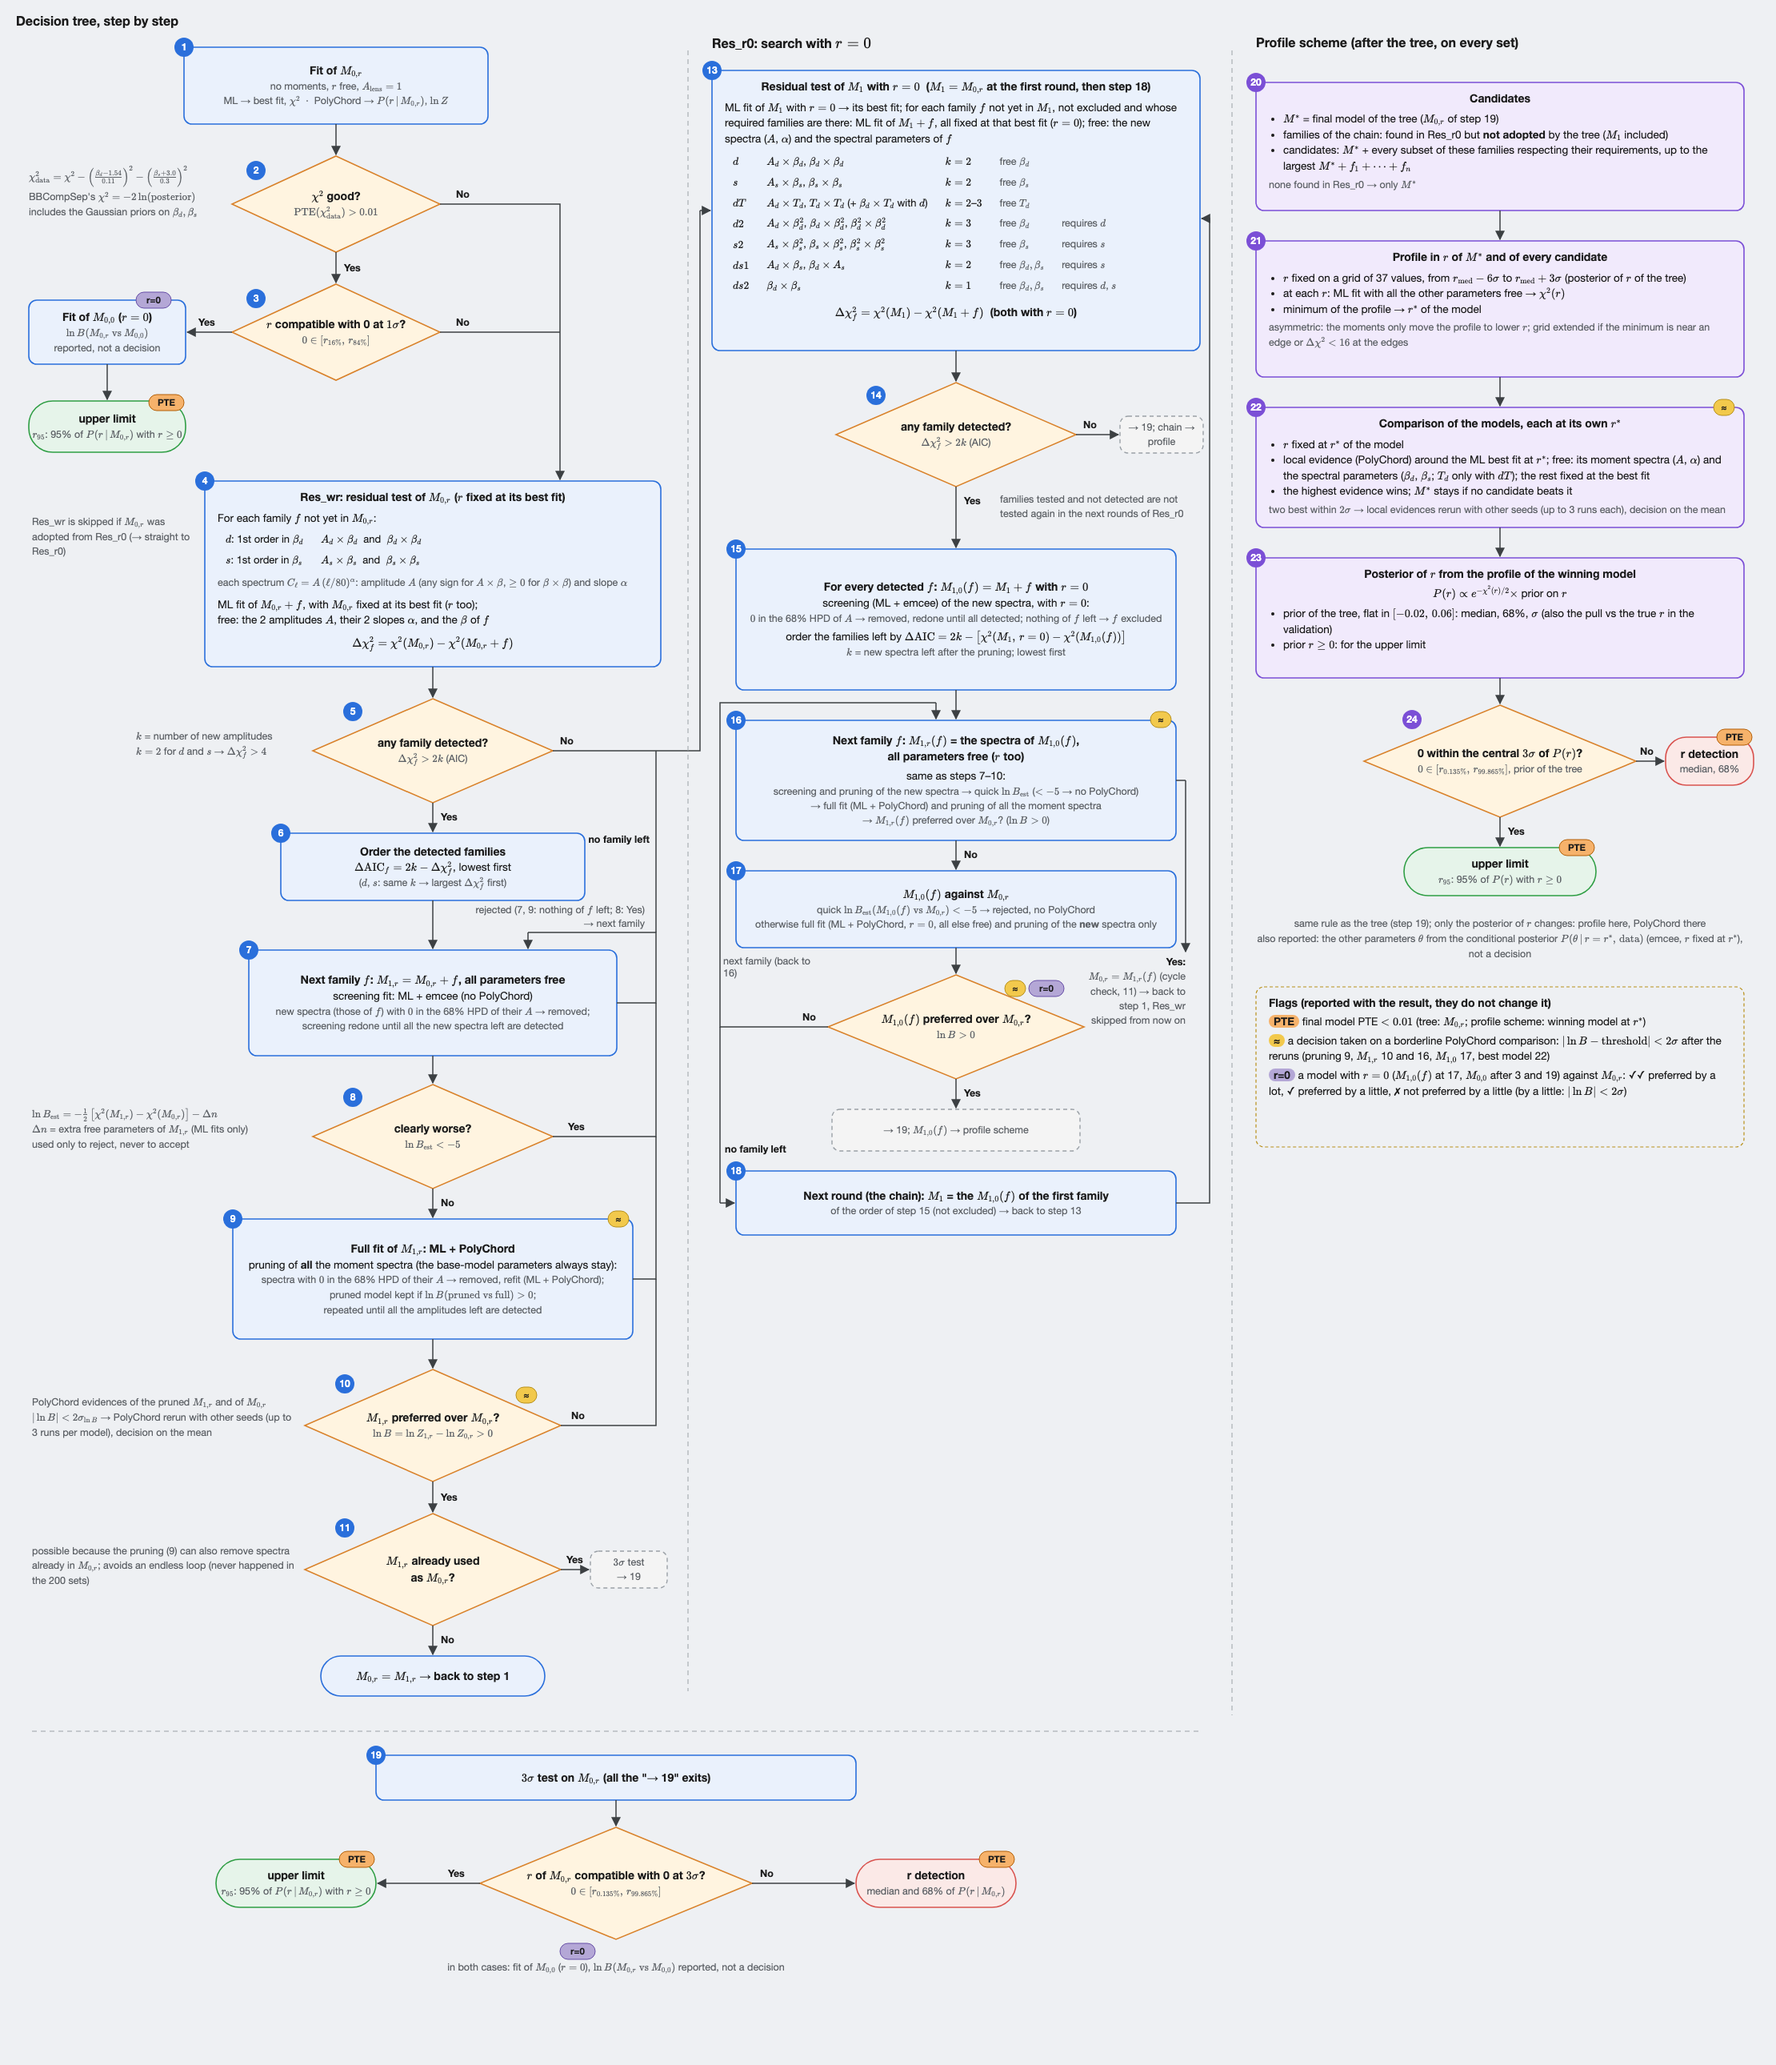
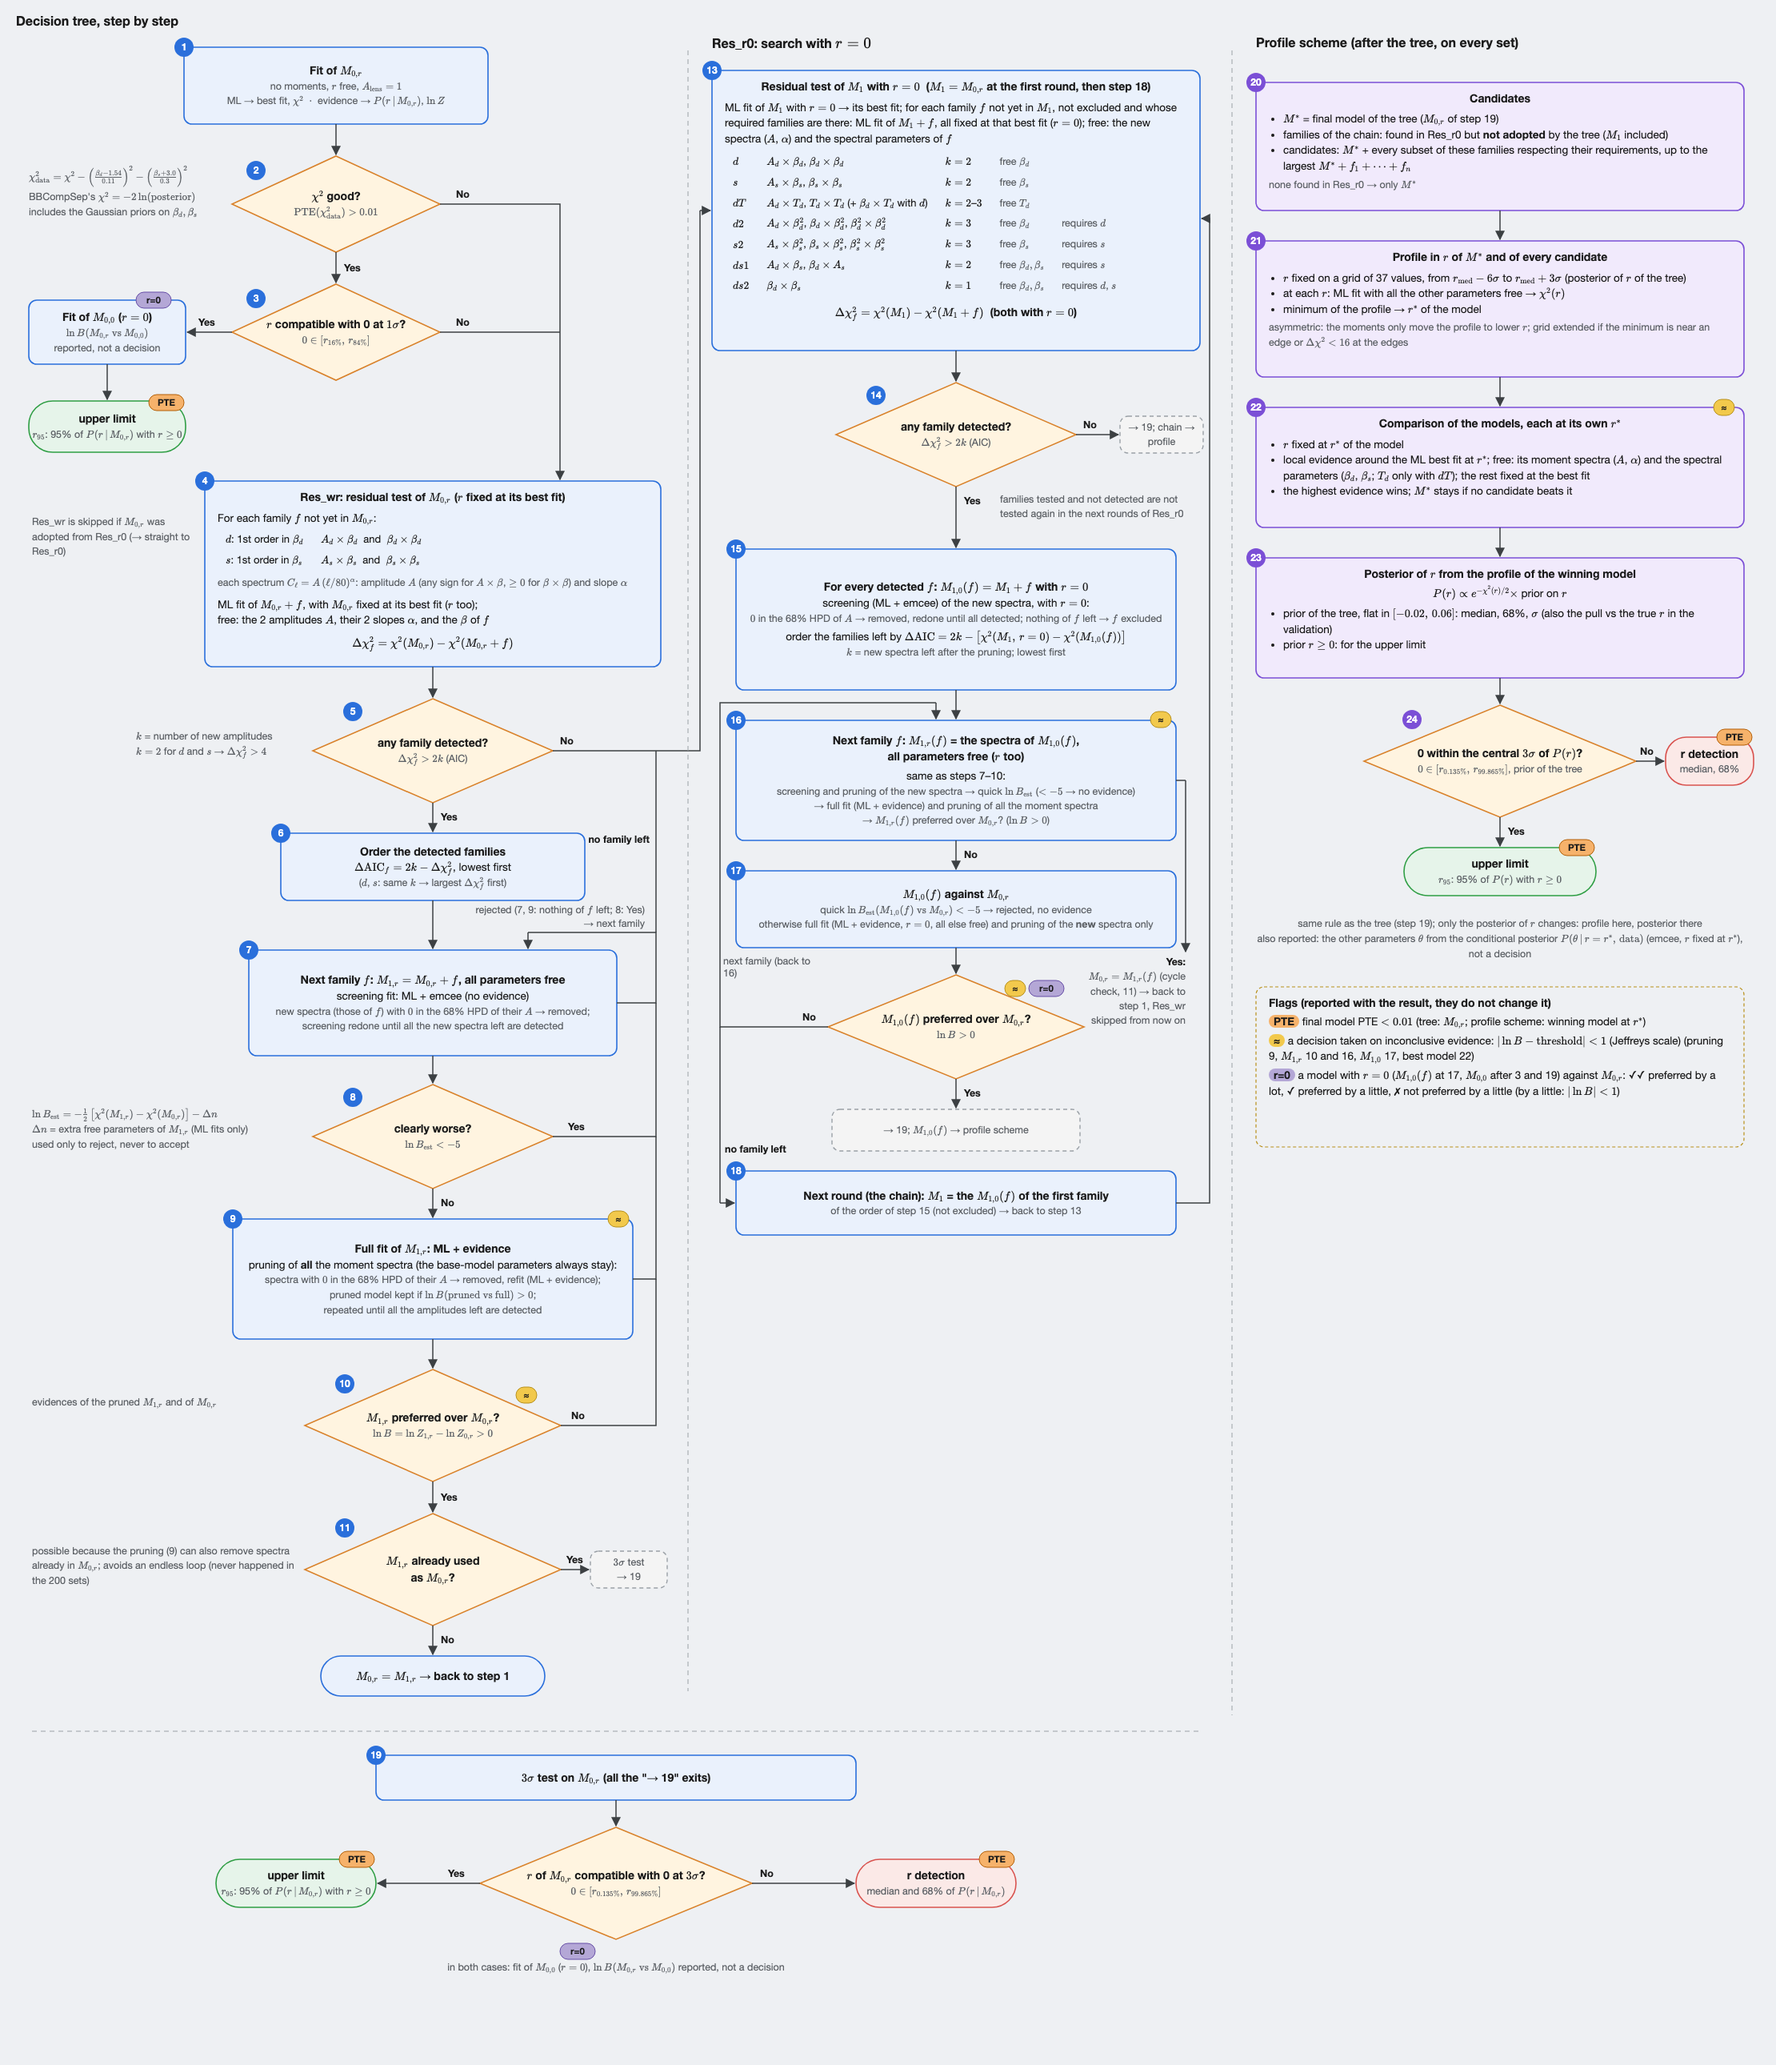
Flowchart and results page: no sampler names in the flowchart, no evidence reruns, |ln B| < 1 flags

diff --git a/docs/flowcharts/step_by_step/tree_steps.html b/docs/flowcharts/step_by_step/tree_steps.html
@@ -56,7 +56,7 @@
   <foreignObject x="210" y="16" width="380" height="96"><div xmlns="http://www.w3.org/1999/xhtml" class="fo">
     <div class="t">Fit of $M_{0,r}$</div>
     <div class="s">no moments, $r$ free, $A_{\rm lens}=1$</div>
-    <div class="s">ML → best fit, $\chi^2$ &nbsp;·&nbsp; PolyChord → $P(r\,|\,M_{0,r})$, $\ln Z$</div>
+    <div class="s">ML → best fit, $\chi^2$ &nbsp;·&nbsp; evidence → $P(r\,|\,M_{0,r})$, $\ln Z$</div>
   </div></foreignObject>
   <circle class="numc" cx="210" cy="16" r="12"/><text class="num" x="210" y="20" text-anchor="middle">1</text>
 
@@ -167,7 +167,7 @@
   <rect class="box" x="291" y="1144" width="460" height="132" rx="10"/>
   <foreignObject x="291" y="1144" width="460" height="132"><div xmlns="http://www.w3.org/1999/xhtml" class="fo">
     <div class="t">Next family $f$: $M_{1,r}=M_{0,r}+f$, all parameters free</div>
-    <div>screening fit: ML + emcee (no PolyChord)</div>
+    <div>screening fit: ML + emcee (no evidence)</div>
     <div class="s">new spectra (those of $f$) with $0$ in the 68% HPD of their $A$ → removed;</div>
     <div class="s">screening redone until all the new spectra left are detected</div>
   </div></foreignObject>
@@ -194,7 +194,7 @@
     <div class="s">used only to reject, never to accept</div>
   </div></foreignObject>
 
-  <!-- Yes: rejected without PolyChord -> next family (join the loop) -->
+  <!-- Yes: rejected without evidence -> next family (join the loop) -->
   <polyline class="ln" points="671,1377 800,1377 800,1210"/>
   <text class="lab" x="690" y="1369">Yes</text>
 
@@ -204,9 +204,9 @@
   <!-- 9: full fit and pruning -->
   <rect class="box" x="271" y="1480" width="500" height="150" rx="10"/>
   <foreignObject x="271" y="1480" width="500" height="150"><div xmlns="http://www.w3.org/1999/xhtml" class="fo">
-    <div class="t">Full fit of $M_{1,r}$: ML + PolyChord</div>
+    <div class="t">Full fit of $M_{1,r}$: ML + evidence</div>
     <div>pruning of <b>all</b> the moment spectra (the base-model parameters always stay):</div>
-    <div class="s">spectra with $0$ in the 68% HPD of their $A$ → removed, refit (ML + PolyChord);</div>
+    <div class="s">spectra with $0$ in the 68% HPD of their $A$ → removed, refit (ML + evidence);</div>
     <div class="s">pruned model kept if $\ln B(\text{pruned vs full})&gt;0$;</div>
     <div class="s">repeated until all the amplitudes left are detected</div>
   </div></foreignObject>
@@ -224,8 +224,7 @@
   </div></foreignObject>
   <circle class="numc" cx="411" cy="1686" r="12"/><text class="num" x="411" y="1690" text-anchor="middle">10</text>
   <foreignObject x="20" y="1700" width="330" height="76"><div xmlns="http://www.w3.org/1999/xhtml" class="fo left" style="padding:0">
-    <div class="s">PolyChord evidences of the pruned $M_{1,r}$ and of $M_{0,r}$</div>
-    <div class="s">$|\ln B|&lt;2\sigma_{\ln B}$ → PolyChord rerun with other seeds (up to 3 runs per model), decision on the mean</div>
+    <div class="s">evidences of the pruned $M_{1,r}$ and of $M_{0,r}$</div>
   </div></foreignObject>
 
   <!-- No -> next family (join the loop) -->
@@ -321,8 +320,8 @@
     <div class="t">Next family $f$: $M_{1,r}(f)$ = the spectra of $M_{1,0}(f)$,</div>
     <div class="t">all parameters free ($r$ too)</div>
     <div style="margin-top:4px">same as steps 7–10:</div>
-    <div class="s">screening and pruning of the new spectra → quick $\ln B_{\rm est}$ ($&lt;-5$ → no PolyChord)</div>
-    <div class="s">→ full fit (ML + PolyChord) and pruning of all the moment spectra</div>
+    <div class="s">screening and pruning of the new spectra → quick $\ln B_{\rm est}$ ($&lt;-5$ → no evidence)</div>
+    <div class="s">→ full fit (ML + evidence) and pruning of all the moment spectra</div>
     <div class="s">→ $M_{1,r}(f)$ preferred over $M_{0,r}$? ($\ln B&gt;0$)</div>
   </div></foreignObject>
   <circle class="numc" cx="900" cy="857" r="12"/><text class="num" x="900" y="861" text-anchor="middle">16</text>
@@ -341,8 +340,8 @@
   <rect class="box" x="900" y="1045" width="550" height="96" rx="10"/>
   <foreignObject x="900" y="1045" width="550" height="96"><div xmlns="http://www.w3.org/1999/xhtml" class="fo">
     <div class="t">$M_{1,0}(f)$ against $M_{0,r}$</div>
-    <div class="s">quick $\ln B_{\rm est}(M_{1,0}(f)\ \text{vs}\ M_{0,r})&lt;-5$ → rejected, no PolyChord</div>
-    <div class="s">otherwise full fit (ML + PolyChord, $r=0$, all else free) and pruning of the <b>new</b> spectra only</div>
+    <div class="s">quick $\ln B_{\rm est}(M_{1,0}(f)\ \text{vs}\ M_{0,r})&lt;-5$ → rejected, no evidence</div>
+    <div class="s">otherwise full fit (ML + evidence, $r=0$, all else free) and pruning of the <b>new</b> spectra only</div>
   </div></foreignObject>
   <circle class="numc" cx="900" cy="1045" r="12"/><text class="num" x="900" y="1049" text-anchor="middle">17</text>
 
@@ -450,10 +449,9 @@
     <div class="t ctr">Comparison of the models, each at its own $r^*$</div>
     <ul style="margin:6px 0 0 0;padding-left:18px">
       <li>$r$ fixed at $r^*$ of the model</li>
-      <li>local evidence (PolyChord) around the ML best fit at $r^*$; free: its moment spectra ($A$, $\alpha$) and the spectral parameters ($\beta_d$, $\beta_s$; $T_d$ only with $dT$); the rest fixed at the best fit</li>
+      <li>local evidence around the ML best fit at $r^*$; free: its moment spectra ($A$, $\alpha$) and the spectral parameters ($\beta_d$, $\beta_s$; $T_d$ only with $dT$); the rest fixed at the best fit</li>
       <li>the highest evidence wins; $M^*$ stays if no candidate beats it</li>
     </ul>
-    <div class="s" style="margin-top:4px">two best within $2\sigma$ → local evidences rerun with other seeds (up to 3 runs each), decision on the mean</div>
   </div></foreignObject>
   <circle class="pnumc" cx="1550" cy="466" r="12"/><text class="num" x="1550" y="470" text-anchor="middle">22</text>
 
@@ -493,7 +491,7 @@
     <div class="t">r detection</div><div class="s">median, 68%</div></div></foreignObject>
 
   <foreignObject x="1550" y="1090" width="610" height="80"><div xmlns="http://www.w3.org/1999/xhtml" class="fo">
-    <div class="s">same rule as the tree (step 19); only the posterior of $r$ changes: profile here, PolyChord there</div>
+    <div class="s">same rule as the tree (step 19); only the posterior of $r$ changes: profile here, posterior there</div>
     <div class="s">also reported: the other parameters $\theta$ from the conditional posterior $P(\theta\,|\,r=r^*,\,\mathrm{data})$ (emcee, $r$ fixed at $r^*$), not a decision</div></div></foreignObject>
   <!-- flags -->
   <g><rect x="740" y="1470" width="26" height="20" rx="10" fill="#f2c94c" stroke="#b8901a" stroke-width="1"/><text x="753.0" y="1484" text-anchor="middle" font-size="11.5" font-weight="700" fill="#1b1b1b">≈</text></g>
@@ -514,8 +512,8 @@
   <foreignObject x="1550" y="1190" width="610" height="200"><div xmlns="http://www.w3.org/1999/xhtml" class="fo left">
     <div class="t">Flags (reported with the result, they do not change it)</div>
     <div style="margin-top:4px"><b style="background:#f6b26b;color:#1b1b1b;border-radius:8px;padding:0 6px">PTE</b> final model PTE $&lt;0.01$ (tree: $M_{0,r}$; profile scheme: winning model at $r^*$)</div>
-    <div style="margin-top:4px"><b style="background:#f2c94c;color:#1b1b1b;border-radius:8px;padding:0 6px">≈</b> a decision taken on a borderline PolyChord comparison: $|\ln B-\text{threshold}|&lt;2\sigma$ after the reruns (pruning 9, $M_{1,r}$ 10 and 16, $M_{1,0}$ 17, best model 22)</div>
-    <div style="margin-top:4px"><b style="background:#b4a7d6;color:#1b1b1b;border-radius:8px;padding:0 6px">r=0</b> a model with $r=0$ ($M_{1,0}(f)$ at 17, $M_{0,0}$ after 3 and 19) against $M_{0,r}$: ✓✓ preferred by a lot, ✓ preferred by a little, ✗ not preferred by a little (by a little: $|\ln B|&lt;2\sigma$)</div>
+    <div style="margin-top:4px"><b style="background:#f2c94c;color:#1b1b1b;border-radius:8px;padding:0 6px">≈</b> a decision taken on inconclusive evidence: $|\ln B-\text{threshold}|&lt;1$ (Jeffreys scale) (pruning 9, $M_{1,r}$ 10 and 16, $M_{1,0}$ 17, best model 22)</div>
+    <div style="margin-top:4px"><b style="background:#b4a7d6;color:#1b1b1b;border-radius:8px;padding:0 6px">r=0</b> a model with $r=0$ ($M_{1,0}(f)$ at 17, $M_{0,0}$ after 3 and 19) against $M_{0,r}$: ✓✓ preferred by a lot, ✓ preferred by a little, ✗ not preferred by a little (by a little: $|\ln B|&lt;1$)</div>
   </div></foreignObject>
 </svg>
 </body>

diff --git a/plots/validation_page/template.html b/plots/validation_page/template.html
@@ -221,8 +221,8 @@ details.more summary { cursor: pointer; color: var(--accent); font-size: .9rem; 
     </div>
     <div class="legend" style="margin:10px 0">
       <span><span class="chip c-pte">PTE</span>final model PTE &lt; 0.01</span>
-      <span><span class="chip c-und">≈</span>a decision taken on inconclusive evidence: |ln B − threshold| &lt; 1 (Jeffreys scale, Trotta 2008), or &lt; 2σ of the sampler after the reruns</span>
-      <span>model with r = 0 against M₀,r: <span class="chip c-m10">r=0 ✓✓</span>preferred by a lot <span class="chip c-m10">r=0 ✓</span>preferred by a little <span class="chip c-m10">r=0 ✗</span>not preferred, by a little (a little: |ln B| &lt; 1, or &lt; 2σ of the sampler)</span>
+      <span><span class="chip c-und">≈</span>a decision taken on inconclusive evidence: |ln B − threshold| &lt; 1 (Jeffreys scale, Trotta 2008)</span>
+      <span>model with r = 0 against M₀,r: <span class="chip c-m10">r=0 ✓✓</span>preferred by a lot <span class="chip c-m10">r=0 ✓</span>preferred by a little <span class="chip c-m10">r=0 ✗</span>not preferred, by a little (a little: |ln B| &lt; 1)</span>
       <span><span class="chip c-pte">det</span>yellow cells: detection with true r &lt; 3×10⁻³</span>
       <span><span class="wrong">UL ✗ / det ✗</span> red cells: wrong conclusion: true r above the 95% upper limit, or detection with true r = 0</span>
     </div>
@@ -345,7 +345,7 @@ function detail(r) {
   const pt = (v, l) => `${l} <span class="${v < PTE_FLAG ? 'p2' : ''}">${v.toFixed(3)}</span>`;
   const GR = { '✓✓': 'preferred by a lot', '✓': 'preferred by a little', '✗': 'not preferred, by a little', '': 'not preferred' };
   if (x.r0c && x.r0c.length) items.push(['Models with r = 0 (r=0 flag)', x.r0c.map(c => `<div>${c.g ? `<span class="chip c-m10">r=0 ${c.g}</span>` : ''}${c.w === 'M₀,₀' ? 'final model with r = 0, M₀,₀' : 'M₁,₀ of Res<sub>r0</sub>'} = ${mx(c.m) || 'no moments'}: ln B(r = 0 vs M₀,r) = ${c.x.toFixed(2)} ± ${c.e.toFixed(2)}, ${GR[c.g]}</div>`).join('') +
-    '<div class="ul">by a lot / by a little: |ln B| above / below max(1, 2σ of the sampler). M₁,₀ preferred stops the Bayesian search (3σ test on M₀,r); M₀,₀ is only reported</div>']);
+    '<div class="ul">by a lot / by a little: |ln B| above / below 1. M₁,₀ preferred stops the Bayesian search (3σ test on M₀,r); M₀,₀ is only reported</div>']);
   items.push(['Goodness of fit', `PTE of the final model: ${pt(r.tpte, 'tree')}, ${pt(r.ppte, 'profile scheme')}`]);
   const nv = (v, n) => v == null ? '<span class="ul">–</span>' : (Math.abs(v) >= 100 ? v.toFixed(1) : Math.abs(v) >= 1 ? v.toFixed(3) : Math.abs(v) >= 1e-3 ? v.toPrecision(3) : v.toExponential(2));
   const ms = (m, lo, hi) => m == null ? '<span class="ul">–</span>' : lo == null ? nv(m) : ae(m, lo, hi, nv);
@@ -359,7 +359,7 @@ function detail(r) {
     <img data-lb src="${img}" loading="lazy" alt="decision path of ${r.s}">
     <div class="ul">click the image to zoom (scroll or drag to move, + / − to zoom, Esc to close)</div></details>`]);
   const cimg = `corners/${r.s}.png?v=${BUILD}`;
-  items.push(['Corner plot', `<details class="path"><summary>show the corner plot (blue: evidence run (PolyChord or nautilus) of the tree model; orange: profile scheme, emcee at r = r*, r from the profile)</summary>
+  items.push(['Corner plot', `<details class="path"><summary>show the corner plot (blue: evidence run (nautilus) of the tree model; orange: profile scheme, emcee at r = r*, r from the profile)</summary>
     <img data-lb src="${cimg}" loading="lazy" alt="corner plot of ${r.s}">
     <div class="ul">black line: true r; dashed orange: r = r*; contours 68% and 95%. Click the image to zoom</div></details>`]);
   return `<dl class="dl">${items.map(([k, v]) => `<dt>${k}</dt><dd>${v}</dd>`).join('')}</dl>`;
